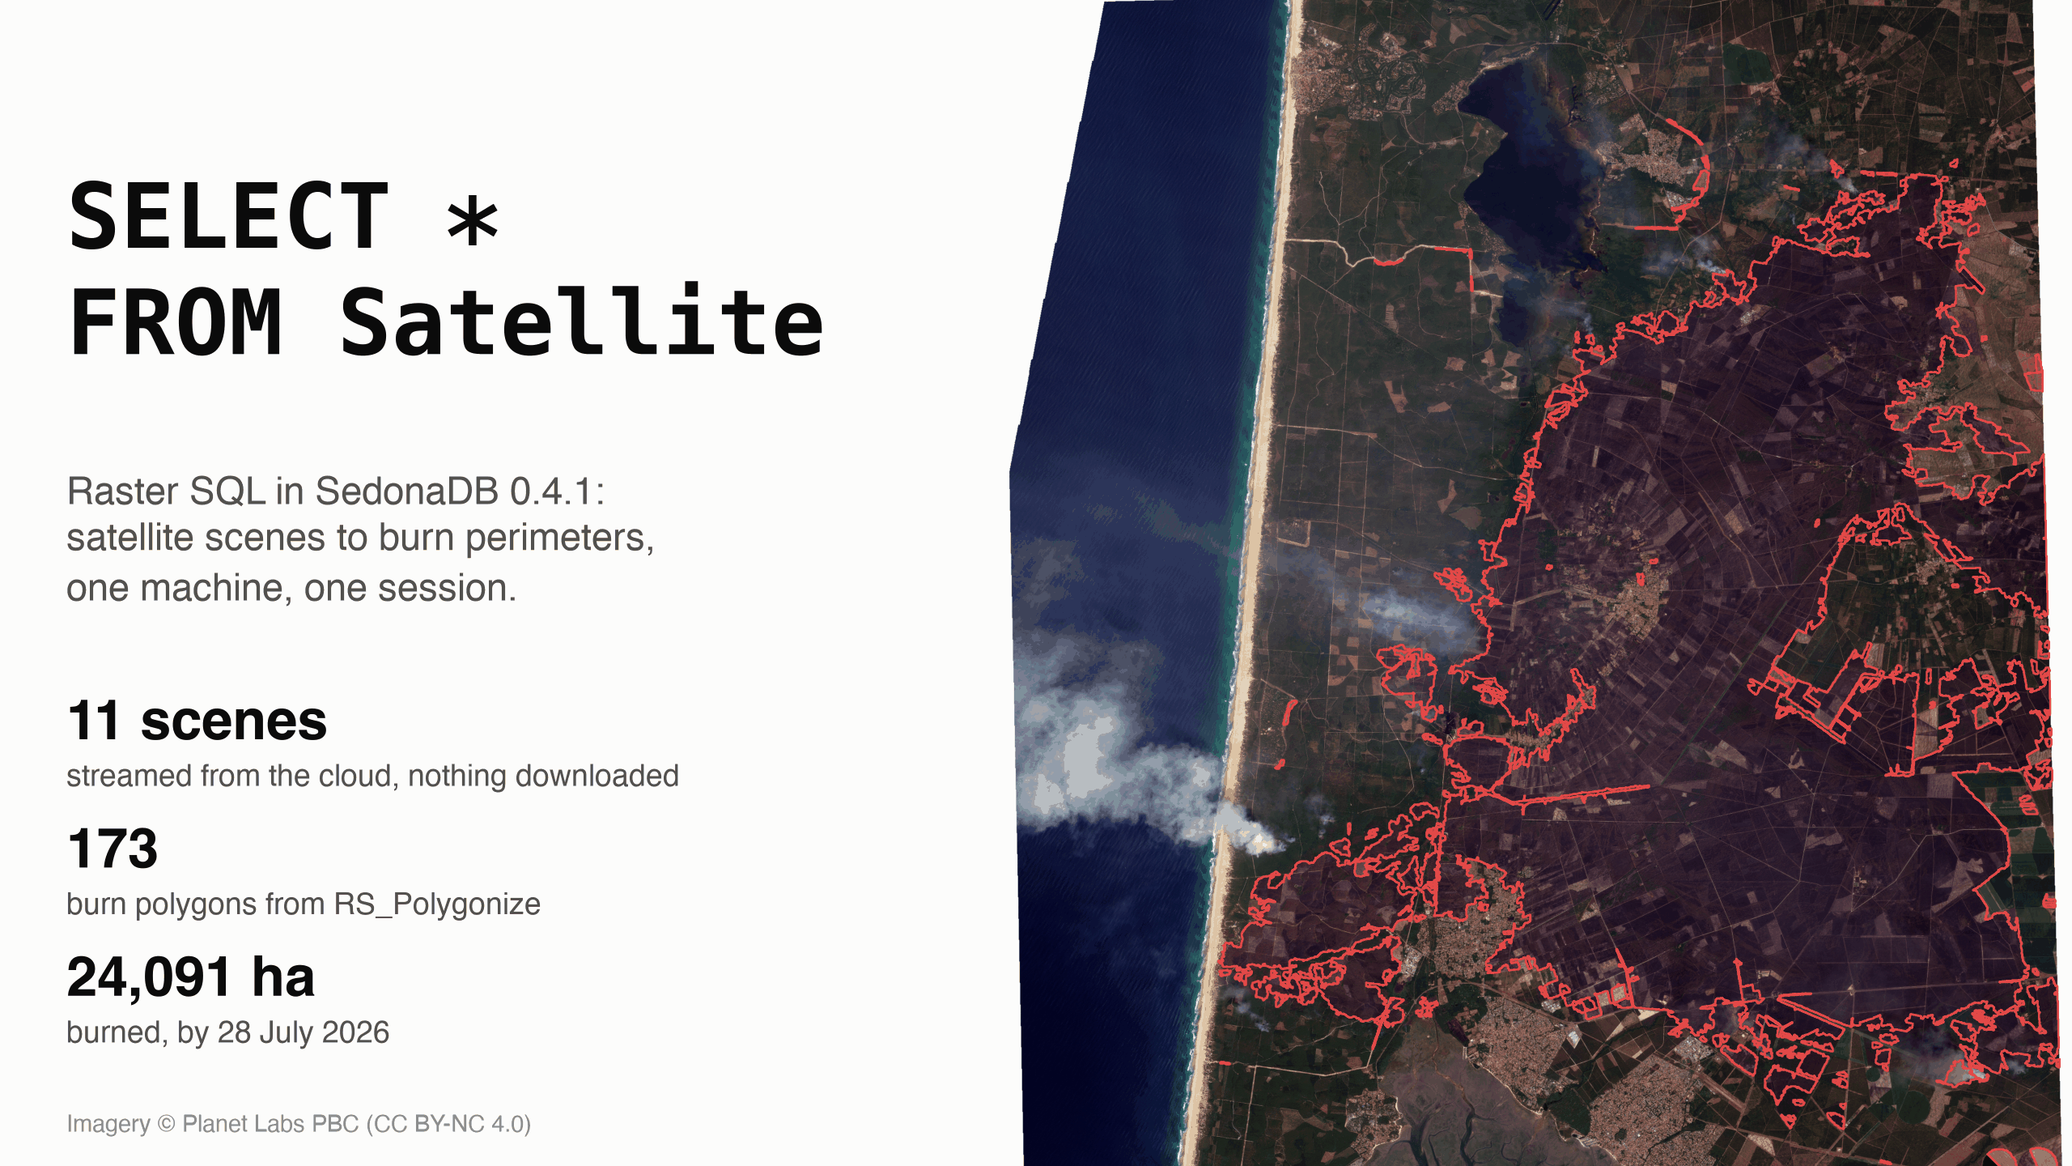
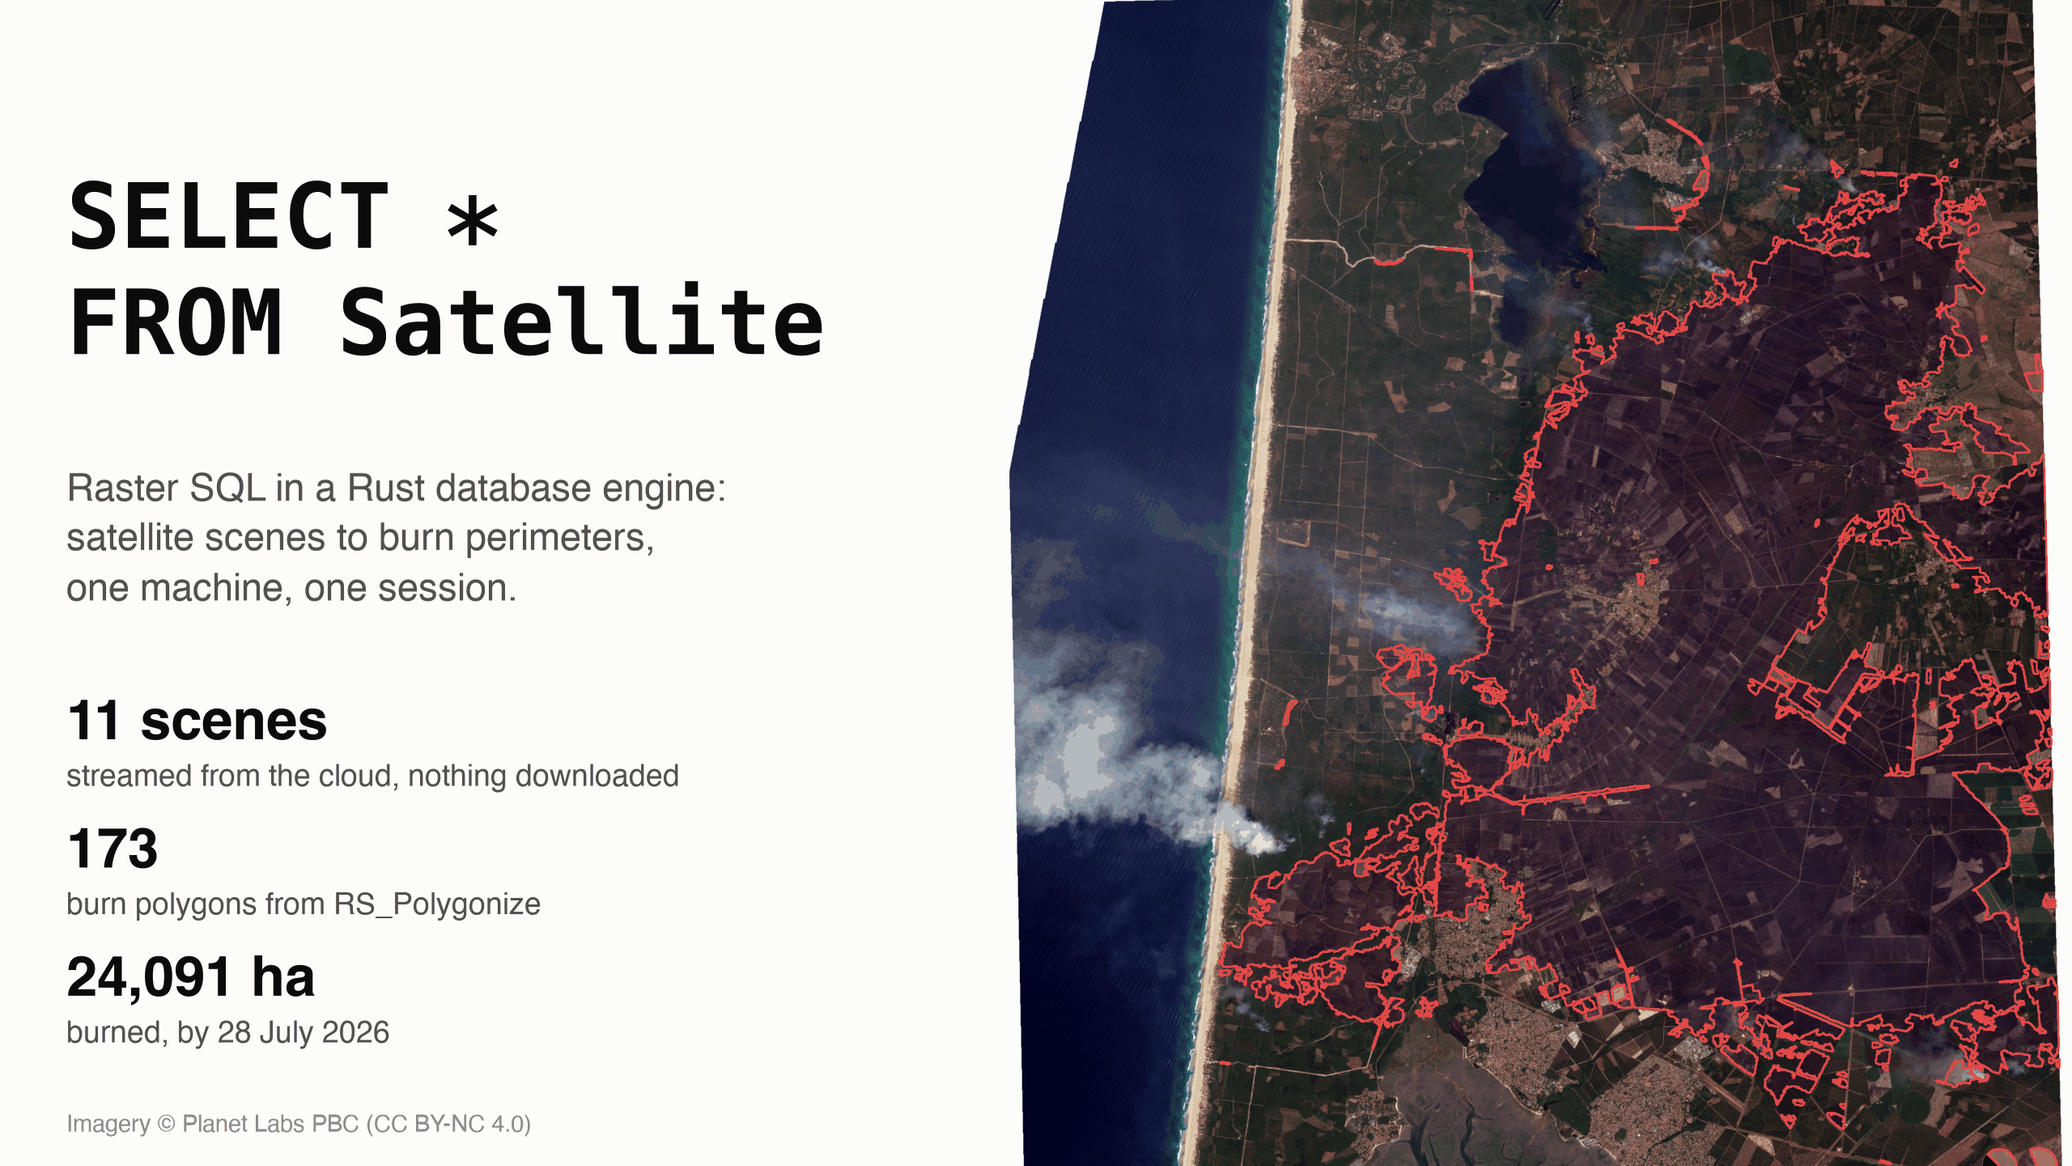
[DOCS] Tighten the SedonaDB raster post and fold the longer snippets

Changed region(s): [[0.0312, 0.4062, 0.3438, 0.4375]]

diff --git a/docs/blog/posts/sedonadb-raster.md b/docs/blog/posts/sedonadb-raster.md
@@ -12,136 +12,120 @@ title: "SELECT * FROM Satellite"
 
 # SELECT * FROM Satellite
 
-[SedonaDB](https://sedona.apache.org/sedonadb/latest/) 0.4.1 ships a raster layer: rasters stream from cloud storage without a download, they clip, resample and reproject in SQL, zonal statistics and polygonization are functions, and pixels move to NumPy and back without a copy. All of it runs on one machine after a `pip install`. The tutorial below puts every piece to work on one event: the Gironde and Landes wildfire of July 2026, which burned through the pine forest west of Bordeaux and prompted 250,000 evacuations. Eleven PlanetScope scenes go in, and burn perimeters, hectares per commune and a GeoTIFF come out.
+Satellite scenes are tables now, in a Rust database engine. [SedonaDB](https://sedona.apache.org/sedonadb/latest/) 0.4.1 ships a raster layer: rasters stream from cloud storage without a download, they clip and reproject in SQL, zonal statistics and polygonization are functions, and pixels move to NumPy and back without a copy. One machine, one `pip install`. The tutorial below runs every piece on one event, the Gironde and Landes wildfire of July 2026, which burned through the pine forest west of Bordeaux and prompted 250,000 evacuations. Eleven PlanetScope scenes go in; burn perimeters, hectares per commune and a GeoTIFF come out.
 
-![Left: title and three numbers. Right: PlanetScope true-color image of the Gironde coast on 28 July 2026 with the burn scar outlined in red polygons](sedonadb-raster-cover.png)
+![Left: the title as a SQL query and three numbers. Right: PlanetScope true-color image of the Gironde coast on 28 July 2026 with the burn scar outlined in red polygons](sedonadb-raster-cover.png)
 
 <!-- more -->
 
-## A raster catalog is a table
+## The catalog is a table
 
-Planet publishes its crisis imagery as public Cloud Optimized GeoTIFFs with a [STAC-GeoParquet](https://source.coop/planet/disasterdata) index per event. SedonaDB reads that index straight over HTTPS, and the footprints are a geometry column, so choosing scenes is a spatial query:
+Planet publishes its crisis imagery as public Cloud Optimized GeoTIFFs with a [STAC-GeoParquet](https://source.coop/planet/disasterdata) index per event. SedonaDB reads the index over HTTPS, the footprints are a geometry column, and picking scenes is `ST_Intersects` against the study area:
 
-```python
-import sedonadb
+??? example "Scene selection"
 
-sd = sedonadb.connect()
-EV = "https://data.source.coop/planet/disasterdata/gironde-wildfire-2026"
-AOI = "POLYGON((-1.30 44.70, -0.95 44.70, -0.95 45.02, -1.30 45.02, -1.30 44.70))"
+    ```python
+    import sedonadb
 
-sd.read_parquet(f"{EV}/pre-event/items.parquet").to_view("pre_event")
-sd.read_parquet(f"{EV}/post-event/items.parquet").to_view("post_event")
-scenes = sd.sql(f"""
-    SELECT 'pre' AS phase, id, "eo:cloud_cover" AS cloud, assets.analytic_sr.href AS href
-    FROM pre_event
-    WHERE constellation = 'planetscope' AND ST_Intersects(geometry, ST_GeomFromWKT('{AOI}', 4326))
-    UNION ALL
-    SELECT 'post', id, "eo:cloud_cover", assets.analytic_sr.href
-    FROM post_event
-    WHERE constellation = 'planetscope' AND ST_Intersects(geometry, ST_GeomFromWKT('{AOI}', 4326))
-    ORDER BY phase DESC, cloud
-""").to_pandas()
-```
+    sd = sedonadb.connect()
+    EV = "https://data.source.coop/planet/disasterdata/gironde-wildfire-2026"
+    AOI = "POLYGON((-1.30 44.70, -0.95 44.70, -0.95 45.02, -1.30 45.02, -1.30 44.70))"
+
+    sd.read_parquet(f"{EV}/pre-event/items.parquet").to_view("pre_event")
+    sd.read_parquet(f"{EV}/post-event/items.parquet").to_view("post_event")
+    scenes = sd.sql(f"""
+        SELECT 'pre' AS phase, id, "eo:cloud_cover" AS cloud, assets.analytic_sr.href AS href
+        FROM pre_event
+        WHERE constellation = 'planetscope' AND ST_Intersects(geometry, ST_GeomFromWKT('{AOI}', 4326))
+        UNION ALL
+        SELECT 'post', id, "eo:cloud_cover", assets.analytic_sr.href
+        FROM post_event
+        WHERE constellation = 'planetscope' AND ST_Intersects(geometry, ST_GeomFromWKT('{AOI}', 4326))
+        ORDER BY phase DESC, cloud
+    """).to_pandas()
+    ```
 
 ```
    phase                       id  cloud
 0    pre  20260708_105558_91_2544      0
 1    pre  20260708_105601_27_2544      0
-2    pre  20260708_105603_64_2544      0
-3    pre  20260708_105606_00_2544      0
-4    pre  20260708_105829_58_2558     18
-5    pre  20260708_105827_24_2558     20
-6    pre  20260708_105831_92_2558     32
-7    pre  20260708_105834_26_2558     58
+...
 8   post  20260728_105820_44_2562      0
 9   post  20260728_105825_11_2562      0
 10  post  20260728_105822_78_2562      5
 ```
 
-Eight scenes from 8 July, before the fire started on the 23rd, and three from 28 July, while it was still burning. Two seconds, and no pixel has been read yet.
+Eight scenes from 8 July, before the fire started on the 23rd, and three from 28 July, while it was still burning. Two seconds, and no pixel has been read.
 
-## Rasters without downloads
+## Rasters stay where they are
 
-`RS_FromPath` opens a file's header and returns an out-of-database raster: georeferencing in the value, bands pointing at the source, pixels fetched only when a function asks for them. A PlanetScope surface-reflectance scene is half a gigabyte; opening one takes about a second:
-
-```python
-sd.sql(f"""
-    SELECT RS_Width(r) AS w, RS_Height(r) AS h, RS_NumBands(r) AS nb, RS_SRID(r) AS srid,
-           RS_ScaleX(r) AS sx, RS_BandPixelType(r, 1) AS t, RS_BandNoDataValue(r, 1) AS nodata
-    FROM (SELECT RS_FromPath('{scenes.href[8]}') AS r)
-""").to_pandas().to_dict("records")[0]
-```
+`RS_FromPath` opens a file's header and returns an out-of-database raster: georeferencing in the value, bands pointing at the source, pixels fetched only when a function asks. A scene is half a gigabyte and opens in about a second:
 
 ```
 {'w': 12715, 'h': 9085, 'nb': 4, 'srid': 32630, 'sx': 3.0, 't': 'UNSIGNED_16BITS', 'nodata': 0.0}
 ```
 
-Four bands at 3 m in UTM zone 30. Every scene has its own origin, so the analysis needs one common grid. That grid is a raster too, built from a NumPy array of zeros at 12 m over the study area, and `RS_ReprojectMatch` puts every clip onto it. A raster made in Python enters SQL as a query parameter:
+Four bands at 3 m in UTM zone 30, each scene on its own origin. The analysis needs one grid, so the grid is a raster too: a NumPy array of zeros at 12 m over the study area, handed to SQL as a query parameter. `RS_Clip` reads only the window inside the study area and `RS_ReprojectMatch` averages the 3 m pixels onto the 12 m cells. The scenes of a date are rows of one `VALUES` table, so one statement fans the reads out across cores:
 
-```python
-import numpy as np
-from sedonadb.raster import Raster
+??? example "Clip and align every scene of a date in one statement"
 
-W, H = 2374, 3017  # 12 m cells over the 28 x 36 km study area, UTM 30N
-GT = [633936.0, 12, 0, 4987224.0, 0, -12]
-ref = Raster.from_numpy(np.zeros((H, W), np.uint8), crs="EPSG:32630", transform=GT)
+    ```python
+    import numpy as np
+    from sedonadb.raster import Raster
 
-
-def aligned(phase, band, algorithm="Average"):
-    """One statement clips and aligns every scene of a date; SedonaDB runs the rows in parallel."""
-    rows = scenes[scenes.phase == phase]
-    values = ", ".join(f"('{r.id}', '{r.href}')" for r in rows.itertuples())
-    tbl = sd.sql(
-        f"""
-        SELECT id, RS_ReprojectMatch(
-                       RS_Clip(RS_FromPath(href), {band}, ST_GeomFromWKT('{AOI}', 4326)),
-                       $1, '{algorithm}') AS r
-        FROM (VALUES {values}) AS t(id, href)
-        """,
-        params=(ref,),
-    ).to_arrow_table()
-    return {
-        tbl["id"][i].as_py(): Raster(tbl["r"], i).to_numpy()[0]
-        for i in range(tbl.num_rows)
-    }
-```
-
-`RS_Clip` reads only the window inside the study area, `RS_ReprojectMatch` averages the 3 m pixels into the 12 m cells, and `to_numpy()` hands each result to NumPy as a view. The scenes of a date are rows of one `VALUES` table, so one statement fans the reads out across cores. Red, near-infrared and the usable-data mask each take one statement per date, six in all, and a few lines of NumPy stack the scenes into one mosaic per date, first clear pixel wins. The six statements take eleven and a half minutes together, nearly all of it range requests into half-gigabyte files over HTTPS; the eleven scenes cover 87 percent of the grid, the rest is ocean and the gaps between strips.
-
-## Band math in NumPy, back into SQL
-
-The burn index is the drop in NDVI between the two dates. Otsu's method picks the cutoff from the data: it splits the histogram of that drop over pixels that were vegetated before the fire, and lands at 0.225:
-
-```python
-def ndvi(red, nir):
-    return np.where(red + nir > 0, (nir - red) / np.maximum(red + nir, 1), np.nan)
+    W, H = 2374, 3017  # 12 m cells over the 28 x 36 km study area, UTM 30N
+    GT = [633936.0, 12, 0, 4987224.0, 0, -12]
+    ref = Raster.from_numpy(np.zeros((H, W), np.uint8), crs="EPSG:32630", transform=GT)
 
 
-drop = ndvi(pre_red, pre_nir) - ndvi(post_red, post_nir)
-burn = (both_dates & (ndvi(pre_red, pre_nir) > 0.35) & (drop > 0.225)).astype(np.uint8)
-mask = Raster.from_numpy(burn, crs="EPSG:32630", transform=GT)
-```
+    def aligned(phase, band, algorithm="Average"):
+        rows = scenes[scenes.phase == phase]
+        values = ", ".join(f"('{r.id}', '{r.href}')" for r in rows.itertuples())
+        tbl = sd.sql(
+            f"""
+            SELECT id, RS_ReprojectMatch(
+                           RS_Clip(RS_FromPath(href), {band}, ST_GeomFromWKT('{AOI}', 4326)),
+                           $1, '{algorithm}') AS r
+            FROM (VALUES {values}) AS t(id, href)
+            """,
+            params=(ref,),
+        ).to_arrow_table()
+        return {
+            tbl["id"][i].as_py(): Raster(tbl["r"], i).to_numpy()[0]
+            for i in range(tbl.num_rows)
+        }
+    ```
 
-`mask` is an in-database raster now, and the rest of the post is SQL against it.
+Red, near-infrared and the usable-data mask each take one statement per date, six in all, and `to_numpy()` hands every result to NumPy as a view. The six statements take eleven and a half minutes together, nearly all of it range requests over HTTPS. A few lines of NumPy stack the scenes into one mosaic per date, first clear pixel wins; the eleven scenes cover 87 percent of the grid, the rest is ocean and the gaps between strips.
+
+## NumPy in the middle
+
+The burn index is the drop in NDVI between the two dates. Otsu's method picks the cutoff from the data, splitting the histogram of that drop over pixels that were vegetated before the fire, and lands at 0.225. The resulting 0/1 array becomes an in-database raster with `Raster.from_numpy`, and the rest of the post is SQL against it.
+
+??? example "NDVI drop to burn mask"
+
+    ```python
+    def ndvi(red, nir):
+        return np.where(red + nir > 0, (nir - red) / np.maximum(red + nir, 1), np.nan)
+
+
+    drop = ndvi(pre_red, pre_nir) - ndvi(post_red, post_nir)
+    burn = (both_dates & (ndvi(pre_red, pre_nir) > 0.35) & (drop > 0.225)).astype(np.uint8)
+    mask = Raster.from_numpy(burn, crs="EPSG:32630", transform=GT)
+    ```
 
 ## RS_Polygonize: the scar becomes geometry
 
-`RS_Polygonize` returns one polygon per connected run of equal-valued pixels, with the value attached. `unnest` turns the list into rows, and from there every vector function applies:
+One function turns connected runs of equal-valued pixels into polygons, and `unnest` turns the list into rows:
 
 ```python
 sd.sql(
     """
     SELECT p.geom AS geom, ST_Area(p.geom) AS m2
-    FROM (SELECT unnest(RS_Polygonize($1, 1)) AS p)
-    WHERE p.value = 1
+    FROM (SELECT unnest(RS_Polygonize($1, 1)) AS p) WHERE p.value = 1
 """,
     params=(mask,),
 ).to_memtable().to_view("patches")
-
-sd.sql("""
-    SELECT ROUND(m2 / 1e4) AS ha, ST_AsText(ST_Centroid(ST_Transform(geom, 'EPSG:4326'))) AS c
-    FROM patches ORDER BY m2 DESC LIMIT 5
-""").to_pandas()
 ```
 
 ```
@@ -149,8 +133,6 @@ sd.sql("""
 0  21090.0  POINT(-1.0499563746105551 44.85692261508244)
 1    855.0  POINT(-1.1992262050284765 44.79970523209393)
 2    303.0  POINT(-0.9643428713835945 44.76723745400395)
-3    299.0   POINT(-1.184405957042549 44.78253924016307)
-4    179.0  POINT(-1.1431500135573076 44.83571182348193)
 ```
 
 Polygonizing the 7-million-cell mask takes 2.5 seconds and yields 3,769 patches. Dropping everything under a hectare leaves **173 polygons covering 24,091 ha**, and one of them is the fire: a single 21,090 ha geometry between Le Porge and Lanton.
@@ -159,7 +141,7 @@ Polygonizing the 7-million-cell mask takes 2.5 seconds and yields 3,769 patches.
 
 ## Zonal statistics on the mask
 
-The same raster parameter works in `RS_ZonalStats`. The zones are the communes, read earlier from Overture's divisions theme, and the sum of a 0/1 mask over a polygon is a pixel count, so hectares are one multiplication away:
+The same raster parameter works in `RS_ZonalStats`. The sum of a 0/1 mask over a polygon is a pixel count, so hectares per commune, read earlier from Overture's divisions theme, are one multiplication away:
 
 ```python
 per_commune = sd.sql(
@@ -171,26 +153,13 @@ per_commune = sd.sql(
 ).to_pandas()
 ```
 
-```
-                  name  burned_ha
-9             Le Porge  6202.1232
-12              Saumos  4044.7440
-7               Lanton  3498.6384
-6                 Arès  3498.3792
-10             Lacanau  2025.4464
-8            Le Temple  1667.0736
-11       Sainte-Hélène   236.1456
-5   Andernos-les-Bains   222.8688
-4              Audenge   109.4832
-```
-
 ![Horizontal bar chart of burned hectares by commune: Le Porge 6,202, Saumos 4,045, Lanton 3,499, Arès 3,498, Lacanau 2,025, Le Temple 1,667, then three communes under 250](sedonadb-raster-communes.svg)
 
 Twenty-seven communes in 12.5 seconds.
 
 ## Three rasters, one grid
 
-Because the grid is a raster, any other raster can be aligned to it. ESA WorldCover, the same 10 m land-cover map used in [last week's post](https://sedona.apache.org/latest/blog/2026/09/04/group-by-but-for-pixels/), goes through the same `RS_Clip` and `RS_ReprojectMatch` pair with `NearestNeighbor` in place of `Average`, since classes must not be averaged, and a NumPy crosstab says what burned:
+Any raster aligns to the grid the same way. ESA WorldCover, the 10 m land-cover map from [last week's post](https://sedona.apache.org/latest/blog/2026/09/04/group-by-but-for-pixels/), goes through the same `RS_Clip` and `RS_ReprojectMatch` pair with `NearestNeighbor` in place of `Average`, and a NumPy crosstab says what burned:
 
 ```
    land_cover  class  burned_ha  share_pct
@@ -200,30 +169,30 @@ Because the grid is a raster, any other raster can be aligned to it. ESA WorldCo
      built-up     50       23.7        0.1
 ```
 
-Three quarters of the scar is the Landes pine forest, most of the rest is the grassland and heath between the plantations. The 549 ha of cropland is a caveat worth reading off the map: a few harvested center-pivot fields at the southeast edge lost as much NDVI as a burned stand, and a vegetation-drop index cannot tell the two apart. The land-cover column is how that gets filtered when it matters.
+Three quarters of the scar is the Landes pine forest. The 549 ha of cropland is a caveat worth reading off the map: a few harvested center-pivot fields at the southeast edge lost as much NDVI as a burned stand, and a vegetation-drop index cannot tell the two apart. The land-cover column is how that gets filtered when it matters.
 
 ## Write it back
 
-`RS_AsGeoTiff` encodes a raster as bytes, tiled and compressed, and the polygons write out as GeoParquet with `to_parquet`:
+`RS_AsGeoTiff` encodes the mask as a tiled, compressed GeoTIFF of 137 KB, and the polygons leave as GeoParquet through `to_parquet`.
 
-```python
-tif = sd.sql(
-    "SELECT RS_AsGeoTiff($1, 'DEFLATE', 0.0, 256) AS tif", params=(mask,)
-).to_arrow_table()
-open("burn_mask.tif", "wb").write(tif["tif"][0].as_py())
-sd.sql(
-    "SELECT ST_Transform(geom, 'EPSG:4326') AS geom, m2 FROM patches WHERE m2 >= 10000"
-).to_parquet("burn_patches.parquet")
-```
+??? example "Export"
 
-The mask is a 137 KB GeoTIFF that any GIS opens on the study-area grid.
+    ```python
+    tif = sd.sql(
+        "SELECT RS_AsGeoTiff($1, 'DEFLATE', 0.0, 256) AS tif", params=(mask,)
+    ).to_arrow_table()
+    open("burn_mask.tif", "wb").write(tif["tif"][0].as_py())
+    sd.sql(
+        "SELECT ST_Transform(geom, 'EPSG:4326') AS geom, m2 FROM patches WHERE m2 >= 10000"
+    ).to_parquet("burn_patches.parquet")
+    ```
 
 ## What the numbers are and are not
 
-The whole pipeline, from catalog query to GeoTIFF, ran in twelve minutes in one process, and all but thirty seconds of that was streaming pixels: everything after the reads, the mask, the polygonize, the zonal statistics and the export, takes under twenty seconds. The 24,091 ha is the scar visible on the morning of 28 July at 12 m, with the pixels under that morning's smoke plumes masked out by Planet's usable-data layer. The fire kept burning after those scenes were captured, and the estimates published for the whole complex run from 34,000 to 45,000 ha. Rerunning against a later scene is a change of one line in the catalog query.
+The whole pipeline ran in twelve minutes in one process, and all but thirty seconds of that was streaming pixels. The 24,091 ha is the scar visible on the morning of 28 July at 12 m, with the pixels under that morning's smoke plumes masked out by Planet's usable-data layer; the fire kept burning after those scenes, and the estimates published for the whole complex run from 34,000 to 45,000 ha. Rerunning against a later scene is a change of one line in the catalog query.
 
 ## The point
 
-Rasters used to leave the database to be analysed and come back as a shapefile. In SedonaDB 0.4.1 they stay: `RS_FromPath` reads them where they are, `RS_Clip` and `RS_ReprojectMatch` put them on a common grid, NumPy does the band math without a copy, `RS_Polygonize` turns the answer into geometry, `RS_ZonalStats` summarizes it by any polygon, and `RS_AsGeoTiff` writes it out. One session, one machine, one language.
+Rasters used to leave the database to be analysed and come back as a shapefile. In a Rust engine that installs with `pip`, they stay: `RS_FromPath` reads them where they are, `RS_Clip` and `RS_ReprojectMatch` put them on a common grid, NumPy does the band math without a copy, `RS_Polygonize` turns the answer into geometry, `RS_ZonalStats` summarizes it by any polygon, and `RS_AsGeoTiff` writes it out. One session, one machine, one language.
 
 *SedonaDB reference: [`RS_FromPath`](https://sedona.apache.org/sedonadb/latest/reference/sql/rs_frompath/), [`RS_ReprojectMatch`](https://sedona.apache.org/sedonadb/latest/reference/sql/rs_reprojectmatch/), [`RS_Polygonize`](https://sedona.apache.org/sedonadb/latest/reference/sql/rs_polygonize/), [`RS_ZonalStats`](https://sedona.apache.org/sedonadb/latest/reference/sql/rs_zonalstats/). Imagery © Planet Labs PBC, Crisis Response Program, CC BY-NC 4.0. Land cover © ESA WorldCover project 2021, contains modified Copernicus Sentinel data (2021). Commune boundaries from Overture Maps.*
